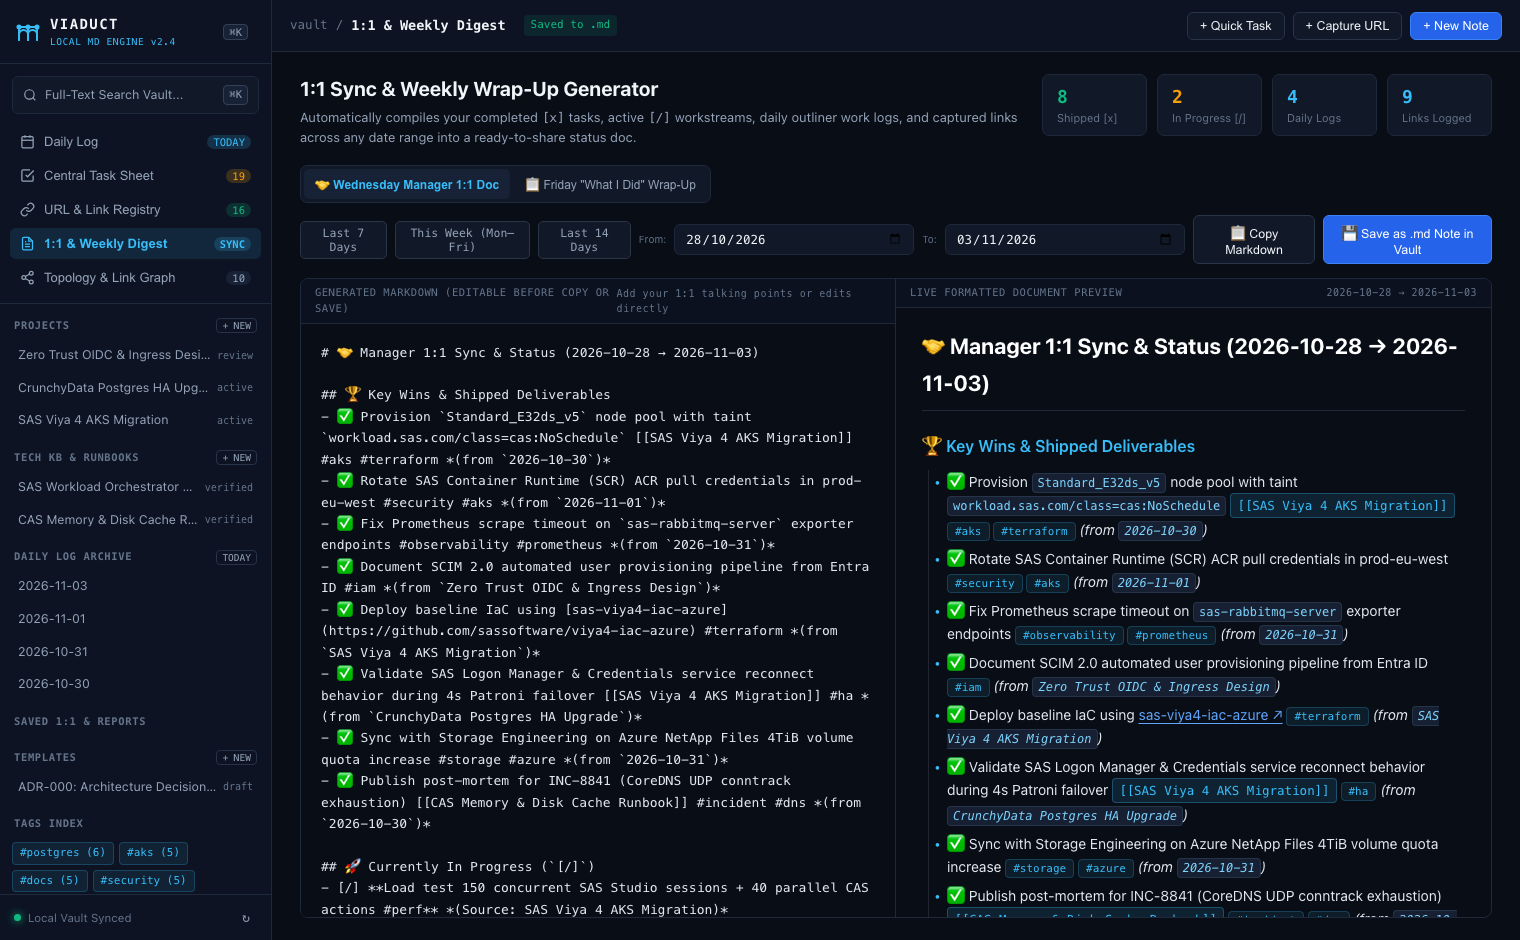
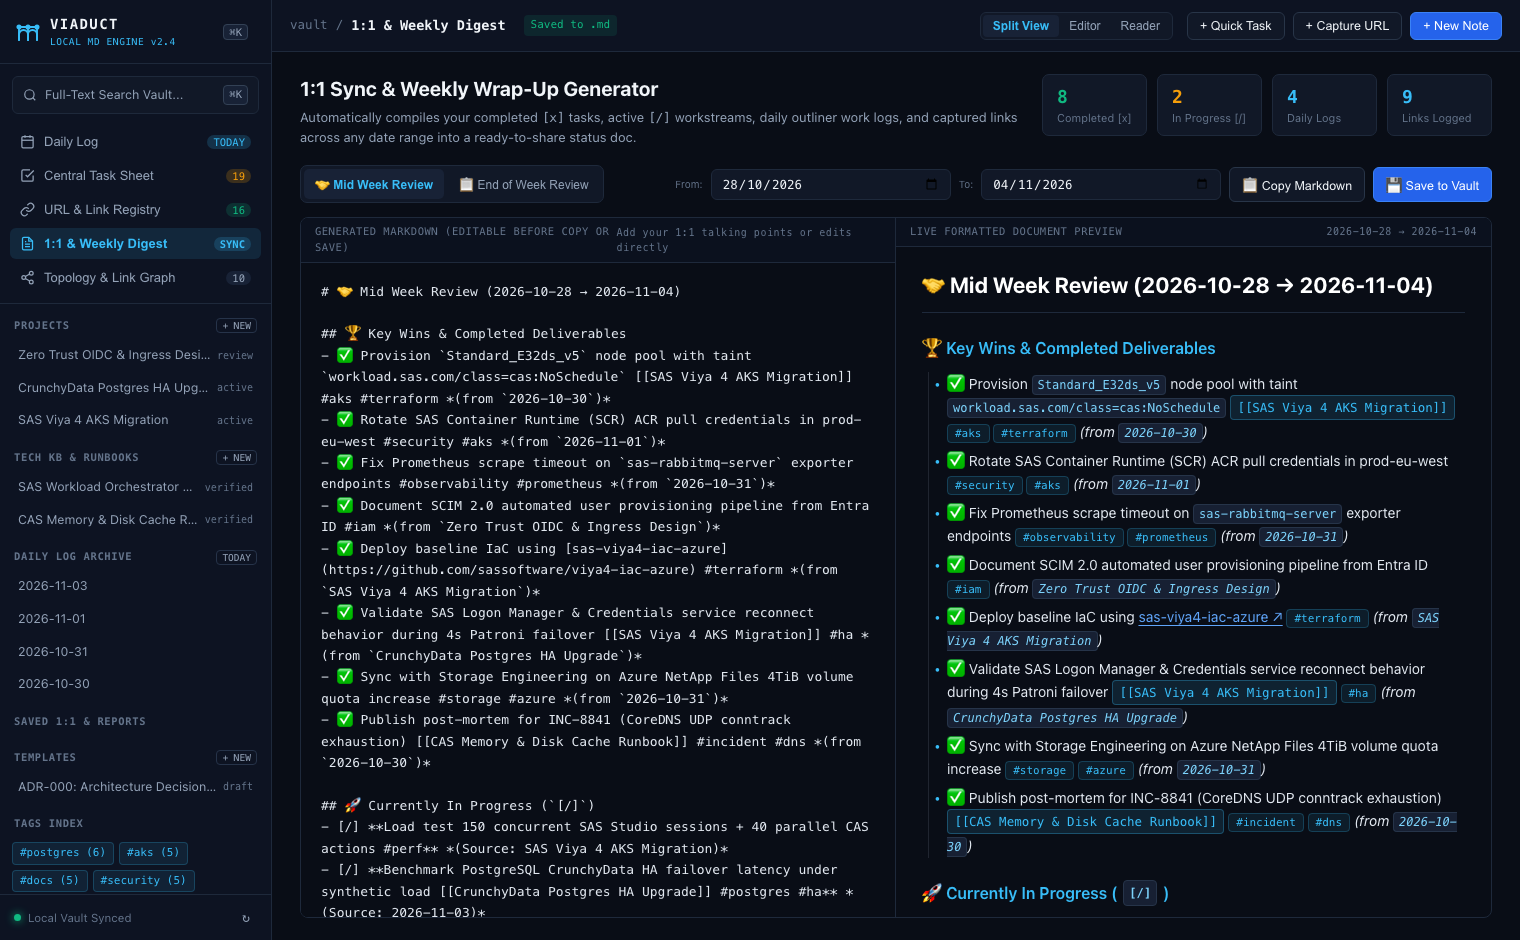
Update 1:1 & Weekly Digest with Mid Week Review (Wed-Wed), End of Week Review (Mon-Fri), Completed label, and Split/Editor/Reader toggle

diff --git a/static/app.js b/static/app.js
@@ -379,20 +379,23 @@ function switchWorkspaceView(viewName) {
     editorView.classList.add("active");
     modeGroup.classList.remove("hidden");
   } else {
-    modeGroup.classList.add("hidden");
     if (viewName === "tasks") {
+      modeGroup.classList.add("hidden");
       tasksView.classList.add("active");
       document.getElementById("topbar-title").textContent = "Centralized Task Sheet";
       loadTasksDashboard();
     } else if (viewName === "links") {
+      modeGroup.classList.add("hidden");
       linksView.classList.add("active");
       document.getElementById("topbar-title").textContent = "URL & Bookmark Registry";
       loadLinksDashboard();
     } else if (viewName === "reports") {
+      modeGroup.classList.remove("hidden");
       reportsView.classList.add("active");
       document.getElementById("topbar-title").textContent = "1:1 & Weekly Digest";
       loadReportsDashboard();
     } else if (viewName === "graph") {
+      modeGroup.classList.add("hidden");
       graphView.classList.add("active");
       document.getElementById("topbar-title").textContent = "Knowledge Topology Graph";
       loadGraphView();
@@ -877,6 +880,40 @@ function renderLinksDashboard() {
 
 // --- View 4: 1:1 Sync & Weekly Wrap-Up Generator ---
 
+function setMidWeekReviewDates() {
+  // 7 days: Last Wednesday to This Wednesday
+  const now = new Date((state.today || new Date().toISOString().slice(0, 10)) + "T12:00:00");
+  const day = now.getDay(); // 0=Sun, 1=Mon, 2=Tue, 3=Wed, 4=Thu, 5=Fri, 6=Sat
+  const diffToWed = day === 0 ? -4 : 3 - day;
+  const thisWed = new Date(now);
+  thisWed.setDate(now.getDate() + diffToWed);
+
+  const lastWed = new Date(thisWed);
+  lastWed.setDate(thisWed.getDate() - 7);
+
+  state.reportStart = lastWed.toISOString().slice(0, 10);
+  state.reportEnd = thisWed.toISOString().slice(0, 10);
+  document.getElementById("report-start-date").value = state.reportStart;
+  document.getElementById("report-end-date").value = state.reportEnd;
+}
+
+function setEndOfWeekReviewDates() {
+  // Monday to Friday of current week
+  const now = new Date((state.today || new Date().toISOString().slice(0, 10)) + "T12:00:00");
+  const day = now.getDay(); // 0=Sun, 1=Mon...
+  const diffToMon = day === 0 ? -6 : 1 - day;
+  const mon = new Date(now);
+  mon.setDate(now.getDate() + diffToMon);
+
+  const fri = new Date(mon);
+  fri.setDate(mon.getDate() + 4);
+
+  state.reportStart = mon.toISOString().slice(0, 10);
+  state.reportEnd = fri.toISOString().slice(0, 10);
+  document.getElementById("report-start-date").value = state.reportStart;
+  document.getElementById("report-end-date").value = state.reportEnd;
+}
+
 function setReportPresetDays(daysBack) {
   const endDt = new Date((state.today || new Date().toISOString().slice(0, 10)) + "T12:00:00");
   const startDt = new Date(endDt);
@@ -889,7 +926,11 @@ function setReportPresetDays(daysBack) {
 
 async function loadReportsDashboard() {
   if (!state.reportStart || !state.reportEnd) {
-    setReportPresetDays(6);
+    if (state.reportMode === "121") {
+      setMidWeekReviewDates();
+    } else {
+      setEndOfWeekReviewDates();
+    }
   }
   const qs = `mode=${encodeURIComponent(state.reportMode)}&start=${encodeURIComponent(
     state.reportStart
@@ -900,7 +941,7 @@ async function loadReportsDashboard() {
   document.getElementById("report-kpis").innerHTML = `
     <div class="kpi-card"><div class="kpi-val" style="color:var(--accent-emerald)">${
       stats.completed_count || 0
-    }</div><div class="kpi-label">Shipped [x]</div></div>
+    }</div><div class="kpi-label">Completed [x]</div></div>
     <div class="kpi-card"><div class="kpi-val" style="color:var(--accent-amber)">${
       stats.in_progress_count || 0
     }</div><div class="kpi-label">In Progress [/]</div></div>
@@ -1211,6 +1252,10 @@ function bindEvents() {
       btn.classList.add("active");
       const container = document.getElementById("editor-split-container");
       container.className = `editor-split-container mode-${btn.dataset.mode}`;
+      const reportContainer = document.getElementById("report-split-container");
+      if (reportContainer) {
+        reportContainer.className = `editor-split-container report-split-container mode-${btn.dataset.mode}`;
+      }
     });
   });
 
@@ -1399,31 +1444,13 @@ function bindEvents() {
         .forEach((t) => t.classList.remove("active"));
       tab.classList.add("active");
       state.reportMode = tab.dataset.mode;
+      if (state.reportMode === "121") {
+        setMidWeekReviewDates();
+      } else {
+        setEndOfWeekReviewDates();
+      }
       loadReportsDashboard();
     });
-  });
-
-  document.getElementById("btn-preset-7d").addEventListener("click", () => {
-    setReportPresetDays(6);
-    loadReportsDashboard();
-  });
-
-  document.getElementById("btn-preset-14d").addEventListener("click", () => {
-    setReportPresetDays(13);
-    loadReportsDashboard();
-  });
-
-  document.getElementById("btn-preset-week").addEventListener("click", () => {
-    const now = new Date((state.today || new Date().toISOString().slice(0, 10)) + "T12:00:00");
-    const day = now.getDay(); // 0=Sun, 1=Mon...
-    const diffToMon = day === 0 ? 6 : day - 1;
-    const mon = new Date(now);
-    mon.setDate(now.getDate() - diffToMon);
-    state.reportStart = mon.toISOString().slice(0, 10);
-    state.reportEnd = now.toISOString().slice(0, 10);
-    document.getElementById("report-start-date").value = state.reportStart;
-    document.getElementById("report-end-date").value = state.reportEnd;
-    loadReportsDashboard();
   });
 
   document.getElementById("report-start-date").addEventListener("change", (e) => {
@@ -1451,7 +1478,7 @@ function bindEvents() {
 
   document.getElementById("btn-save-report").addEventListener("click", async () => {
     const mdBody = document.getElementById("report-editor").value;
-    const label = state.reportMode === "121" ? "1-1 Sync" : "Weekly Wrap-Up";
+    const label = state.reportMode === "121" ? "Mid Week Review" : "End of Week Review";
     const fileTitle = `${state.reportEnd} ${label}`;
     const relPath = `reports/${fileTitle}.md`;
     const fullContent = `---\ntitle: "${fileTitle}"\ntype: report\nstatus: ${state.reportMode}\ntags: [report, ${state.reportMode}]\n---\n\n${mdBody}`;

diff --git a/static/index.html b/static/index.html
@@ -4,7 +4,7 @@
   <meta charset="UTF-8" />
   <meta name="viewport" content="width=device-width, initial-scale=1.0" />
   <title>VIADUCT // Cloud Knowledge & Operations Vault</title>
-  <link rel="stylesheet" href="/styles.css?v=2.5" />
+  <link rel="stylesheet" href="/styles.css?v=2.7" />
 </head>
 <body>
   <div id="app" class="app-shell">
@@ -422,24 +422,21 @@
 
           <div class="filter-bar" style="flex-shrink:0;">
             <div class="filter-tabs" id="report-mode-tabs">
-              <button class="filter-tab active" data-mode="121">🤝 Wednesday Manager 1:1 Doc</button>
-              <button class="filter-tab" data-mode="friday">📋 Friday "What I Did" Wrap-Up</button>
+              <button class="filter-tab active" data-mode="121">🤝 Mid Week Review</button>
+              <button class="filter-tab" data-mode="friday">📋 End of Week Review</button>
             </div>
 
-            <div class="filter-controls" style="align-items:center;">
-              <button class="btn-sm" id="btn-preset-7d">Last 7 Days</button>
-              <button class="btn-sm" id="btn-preset-week">This Week (Mon–Fri)</button>
-              <button class="btn-sm" id="btn-preset-14d">Last 14 Days</button>
+            <div class="filter-controls" style="align-items:center;white-space:nowrap;">
               <span class="pane-hint">From:</span>
               <input type="date" id="report-start-date" class="date-input" />
               <span class="pane-hint">To:</span>
               <input type="date" id="report-end-date" class="date-input" />
               <button class="action-btn" id="btn-copy-report">📋 Copy Markdown</button>
-              <button class="action-btn primary" id="btn-save-report">💾 Save as .md Note in Vault</button>
+              <button class="action-btn primary" id="btn-save-report">💾 Save to Vault</button>
             </div>
           </div>
 
-          <div class="editor-split-container mode-split" style="flex:1;grid-template-columns:1fr 1fr;border:1px solid var(--border-subtle);border-radius:8px;overflow:hidden;">
+          <div id="report-split-container" class="editor-split-container report-split-container mode-split" style="flex:1;overflow:hidden;">
             <div class="editor-pane">
               <div class="pane-Subheader">
                 <span>GENERATED MARKDOWN (EDITABLE BEFORE COPY OR SAVE)</span>
@@ -520,6 +517,6 @@
     </div>
   </div>
 
-  <script src="/app.js?v=2.5"></script>
+  <script src="/app.js?v=2.7"></script>
 </body>
 </html>

diff --git a/static/styles.css b/static/styles.css
@@ -573,6 +573,21 @@ html, body {
   display: none;
 }
 
+/* 2-pane report split container (no 3rd inspector column) */
+.report-split-container {
+  border: 1px solid var(--border-subtle);
+  border-radius: 8px;
+}
+.report-split-container.mode-split {
+  grid-template-columns: 1fr 1fr;
+}
+.report-split-container.mode-edit {
+  grid-template-columns: 1fr;
+}
+.report-split-container.mode-preview {
+  grid-template-columns: 1fr;
+}
+
 .editor-pane, .preview-pane {
   display: flex;
   flex-direction: column;

diff --git a/server.py b/server.py
@@ -1572,9 +1572,9 @@ tags: [notes]
         # Build Markdown Document
         md = []
         if mode == "121":
-            md.append(f"# 🤝 Manager 1:1 Sync & Status ({start_date} → {end_date})")
+            md.append(f"# 🤝 Mid Week Review ({start_date} → {end_date})")
             md.append("")
-            md.append("## 🏆 Key Wins & Shipped Deliverables")
+            md.append("## 🏆 Key Wins & Completed Deliverables")
             if completed_tasks:
                 for t in completed_tasks:
                     md.append(f"- ✅ {t['clean_text']} *(from `{t['source_title']}`)*")
@@ -1605,7 +1605,7 @@ tags: [notes]
             md.append("- **Team / Resourcing**: ")
 
             md.append("")
-            md.append("## 🛠 Engineering Work Log Highlights")
+            md.append("## 🛠 Daily Work Log Highlights")
             if work_logs_by_day:
                 for day in work_logs_by_day:
                     md.append(f"### 📅 {day['date']}")
@@ -1615,8 +1615,8 @@ tags: [notes]
                 md.append("- *No daily work log bullets in this period.*")
 
         else:
-            # Friday "What I Have Done" Weekly Wrap-Up
-            md.append(f"# 📋 Weekly Wrap-Up: What I Did ({start_date} → {end_date})")
+            # End of Week Review (Mon - Fri)
+            md.append(f"# 📋 End of Week Review ({start_date} → {end_date})")
             md.append("")
             md.append(f"**Summary**: Completed **{len(completed_tasks)}** tasks, progressed **{len(in_progress_tasks)}** active workstreams, and logged **{len(period_links)}** technical references across **{len(daily_rows)}** daily logs.")
             md.append("")
